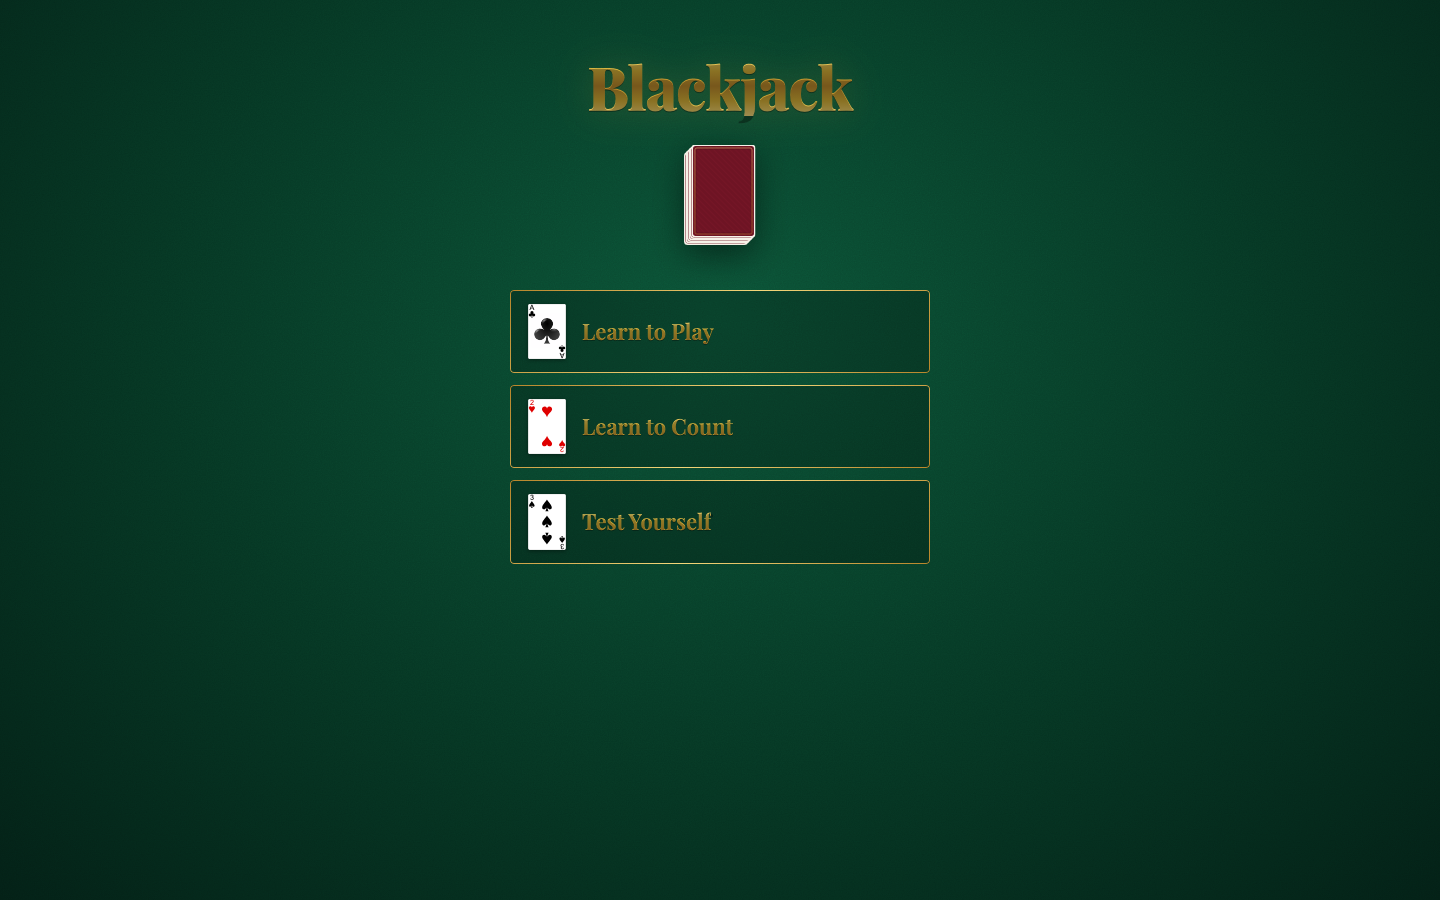
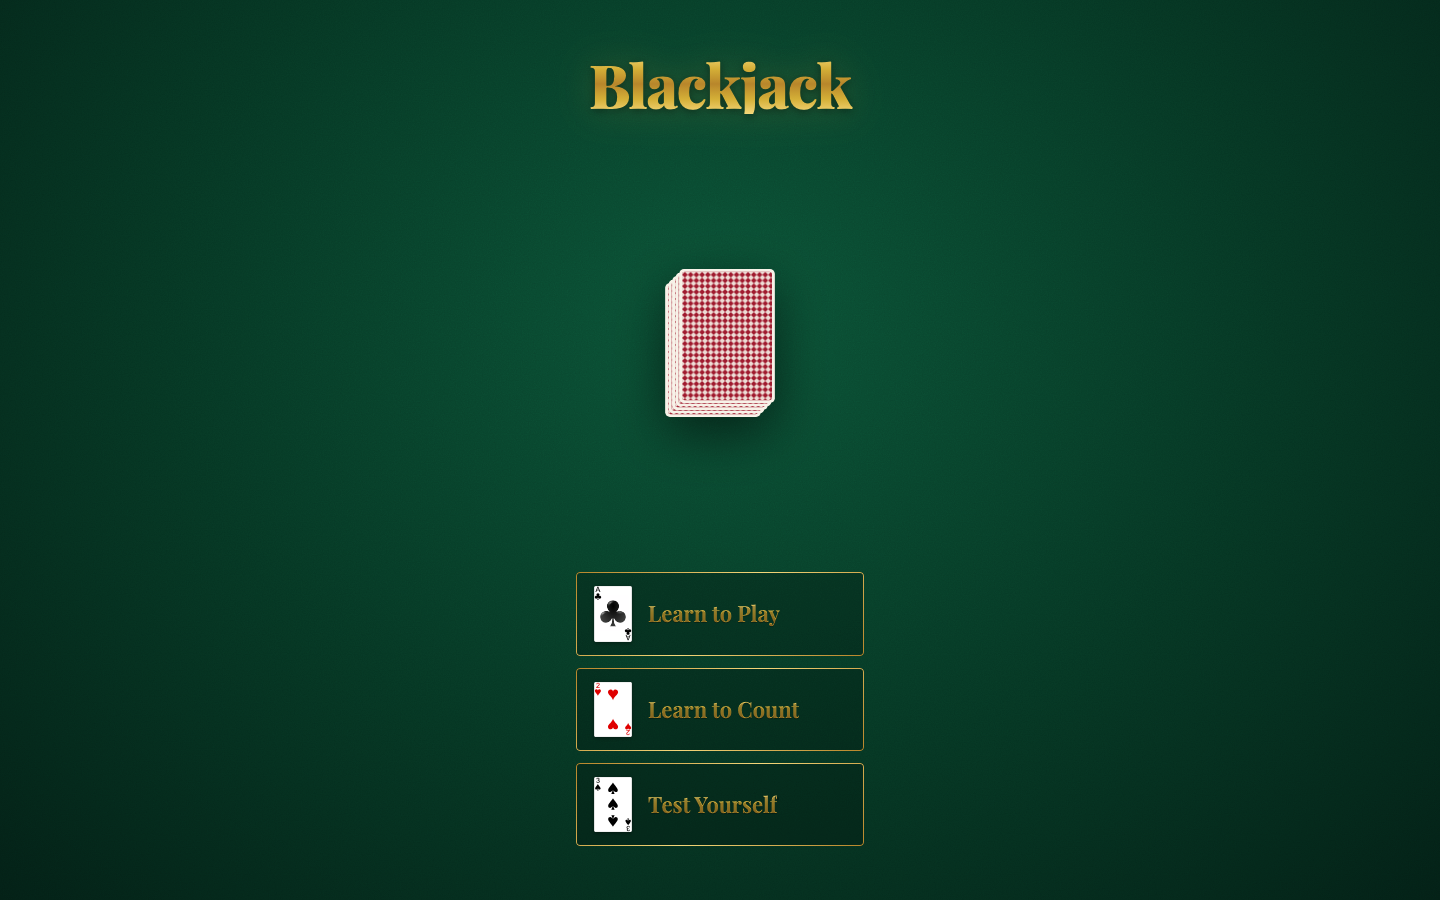
fix title descender clipping and scale layout to 320px column

diff --git a/styles.css b/styles.css
@@ -77,17 +77,21 @@ body::before {
 
 /* ============ HOME ============ */
 .screen-home {
-  align-items: center;
+  align-items: stretch;
   justify-content: flex-start;
-  padding: 56px 24px 48px;
+  padding: 0;
 }
 
 .home-col {
   width: 100%;
-  max-width: 420px;
+  max-width: 320px;
+  margin: 0 auto;
+  height: 100dvh;
+  padding: 6vh 16px;
   display: flex;
   flex-direction: column;
   align-items: center;
+  justify-content: space-between;
 }
 
 .home-header {
@@ -98,9 +102,9 @@ body::before {
 .app-title {
   font-family: 'Playfair Display', Georgia, serif;
   font-weight: 800;
-  font-size: clamp(40px, 11vw, 60px);
-  letter-spacing: -0.015em;
-  line-height: 1;
+  font-size: clamp(44px, 11vw, 60px);
+  letter-spacing: -0.02em;
+  line-height: 1.25;
   background: linear-gradient(180deg,
     #f4d77a 0%,
     #d4af37 25%,
@@ -111,28 +115,36 @@ body::before {
   -webkit-background-clip: text;
   color: transparent;
   -webkit-text-fill-color: transparent;
-  text-shadow: 0 1px 0 rgba(0, 0, 0, 0.35);
-  filter: drop-shadow(0 0 18px rgba(212, 175, 55, 0.18));
+  filter:
+    drop-shadow(0 2px 4px rgba(0, 0, 0, 0.4))
+    drop-shadow(0 0 18px rgba(212, 175, 55, 0.18));
 }
 
 /* ============ DECK ============ */
+.deck-wrap {
+  display: flex;
+  align-items: center;
+  justify-content: center;
+  width: 100%;
+}
+
 .deck {
   position: relative;
-  width: 72px;
-  height: 102px;
-  margin: 36px 0 36px;
-  filter: drop-shadow(0 10px 16px rgba(0, 0, 0, 0.45));
+  width: 110px;
+  height: 148px;
+  filter: drop-shadow(0 16px 26px rgba(0, 0, 0, 0.55));
 }
 
 .card-back {
   position: absolute;
-  top: 0;
+  top: 14px;
   left: 0;
-  width: 64px;
-  height: auto;
-  transform: translate(calc(var(--i) * 1.5px), calc(var(--i) * -1.5px));
+  width: 96px;
+  height: 134px;
+  transform: translate(calc(var(--i) * 3.5px), calc(var(--i) * -3.5px));
   user-select: none;
   -webkit-user-drag: none;
+  border-radius: 4px;
 }
 
 /* ============ MODE BUTTONS ============ */

diff --git a/index.html b/index.html
@@ -17,13 +17,14 @@
           <h1 class="app-title">Blackjack</h1>
         </header>
 
-        <div class="deck" aria-hidden="true">
-          <img class="card-back" src="assets/cards/back.svg" alt="" style="--i:0">
-          <img class="card-back" src="assets/cards/back.svg" alt="" style="--i:1">
-          <img class="card-back" src="assets/cards/back.svg" alt="" style="--i:2">
-          <img class="card-back" src="assets/cards/back.svg" alt="" style="--i:3">
-          <img class="card-back" src="assets/cards/back.svg" alt="" style="--i:4">
-          <img class="card-back" src="assets/cards/back.svg" alt="" style="--i:5">
+        <div class="deck-wrap">
+          <div class="deck" aria-hidden="true">
+            <img class="card-back" src="assets/cards/back.svg" alt="" style="--i:0">
+            <img class="card-back" src="assets/cards/back.svg" alt="" style="--i:1">
+            <img class="card-back" src="assets/cards/back.svg" alt="" style="--i:2">
+            <img class="card-back" src="assets/cards/back.svg" alt="" style="--i:3">
+            <img class="card-back" src="assets/cards/back.svg" alt="" style="--i:4">
+          </div>
         </div>
 
         <nav class="mode-list">